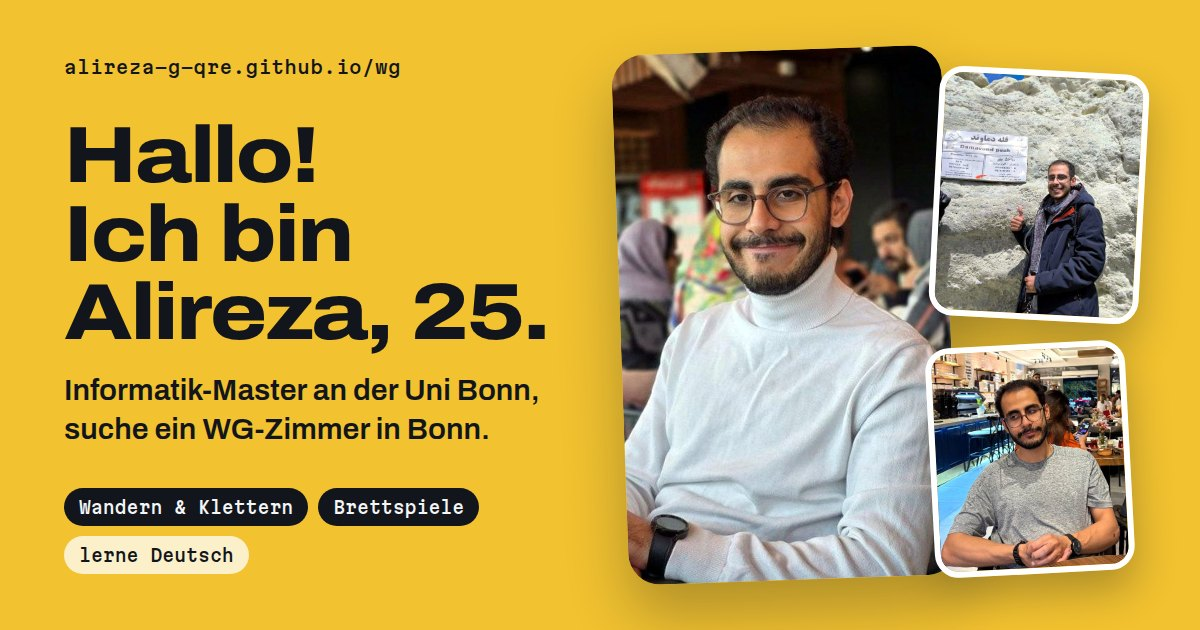
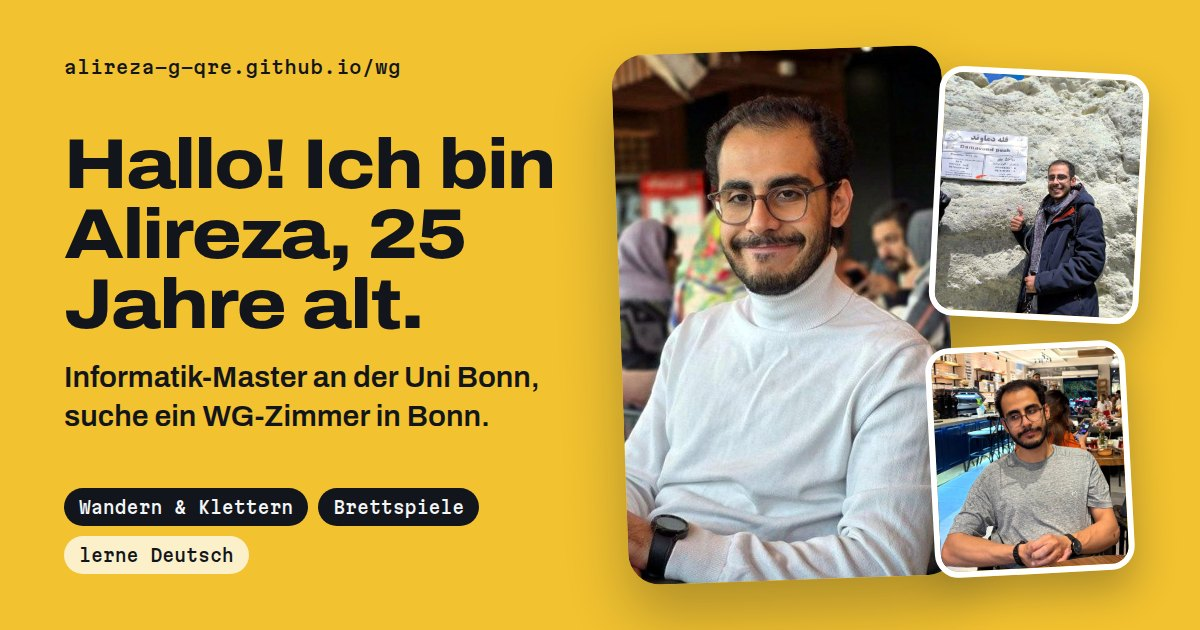
WG profile: age as '25 Jahre alt', arrival Oct 2026, neutral cooking line

Changed region(s): [[0.0308, 0.181, 0.4625, 0.7238]]

diff --git a/wg/index.html b/wg/index.html
@@ -4,10 +4,10 @@
 <meta charset="utf-8">
 <meta name="viewport" content="width=device-width, initial-scale=1, viewport-fit=cover">
 <title>Alireza · WG-Profil / Flatmate profile</title>
-<meta name="description" content="Hallo! Ich bin Alireza, 25, Informatik-Master an der Uni Bonn, und suche ein WG-Zimmer in Bonn.">
+<meta name="description" content="Hallo! Ich bin Alireza, 25 Jahre alt, Informatik-Master an der Uni Bonn, und suche ein WG-Zimmer in Bonn.">
 <meta property="og:type" content="profile">
 <meta property="og:url" content="https://alireza-g-qre.github.io/wg/">
-<meta property="og:title" content="Alireza, 25 · sucht ein WG-Zimmer in Bonn">
+<meta property="og:title" content="Alireza, 25 Jahre · sucht ein WG-Zimmer in Bonn">
 <meta property="og:description" content="Informatik-Master an der Uni Bonn · Wandern, Bergsteigen &amp; Klettern · Brettspiele · lerne Deutsch">
 <meta property="og:image" content="https://alireza-g-qre.github.io/assets/img/og-wg.jpg">
 <meta name="twitter:card" content="summary_large_image">
@@ -41,7 +41,7 @@
   <div class="wg-col" lang="de" data-lang-block="de">
     <section class="card lead" style="--i:1">
       <h1>Hallo, ich bin Alireza.</h1>
-      <p>25, studiere Informatik (Master) an der Uni Bonn und bin im Oktober nach Bonn gezogen. Vorher habe ich ein paar Jahre als Data Scientist gearbeitet.</p>
+      <p>Ich bin 25 Jahre alt und studiere Informatik (Master) an der Uni Bonn. Im Oktober 2026 bin ich nach Bonn gekommen, vorher habe ich ein paar Jahre als Data Scientist gearbeitet.</p>
       <div class="tags"><span>Student · Uni Bonn</span><span>Persisch · Englisch · Deutsch (Anfänger)</span></div>
     </section>
     <section class="card facts" style="--i:2">
@@ -54,7 +54,7 @@
       <h2>Wie ich wohne</h2>
       <ul class="live">
         <li><span>ALLTAG</span><span>Unter der Woche Uni und Lernen, am Wochenende gern draußen in der Natur.</span></li>
-        <li><span>KÜCHE</span><span>Ich koche gern, aber noch nicht gut. Gemeinsam kochen fände ich schön, ich lerne gern dazu.</span></li>
+        <li><span>KÜCHE</span><span>Ich koche gern, und gemeinsam kochen fände ich schön.</span></li>
         <li><span>PUTZEN</span><span>Ein Putzplan ist für mich gut so, und ich mache meinen Teil.</span></li>
         <li><span>DEUTSCH</span><span>Ich lerne Deutsch und freue mich über jede Übung im Alltag. Englisch klappt jederzeit.</span></li>
       </ul>
@@ -83,7 +83,7 @@
   <div class="wg-col" lang="en" data-lang-block="en" hidden>
     <section class="card lead">
       <h1>Hi, I'm Alireza.</h1>
-      <p>25, studying Computer Science (Master's) at the University of Bonn. I moved to Bonn in October; before that I worked as a data scientist for a few years.</p>
+      <p>I'm 25 years old and study Computer Science (Master's) at the University of Bonn. I came to Bonn in October 2026; before that I worked as a data scientist for a few years.</p>
       <div class="tags"><span>Student · Uni Bonn</span><span>Persian · English · German (beginner)</span></div>
     </section>
     <section class="card facts">
@@ -96,7 +96,7 @@
       <h2>How I live</h2>
       <ul class="live">
         <li><span>DAYS</span><span>Uni and studying during the week; at weekends I like to be outdoors.</span></li>
-        <li><span>KITCHEN</span><span>I like cooking, I'm just not good at it yet. Happy to cook together and learn.</span></li>
+        <li><span>KITCHEN</span><span>I like cooking, and cooking together sounds great.</span></li>
         <li><span>CLEANING</span><span>A cleaning plan works well for me, and I do my part.</span></li>
         <li><span>GERMAN</span><span>I'm learning German and happy to practise at home. English always works.</span></li>
       </ul>
